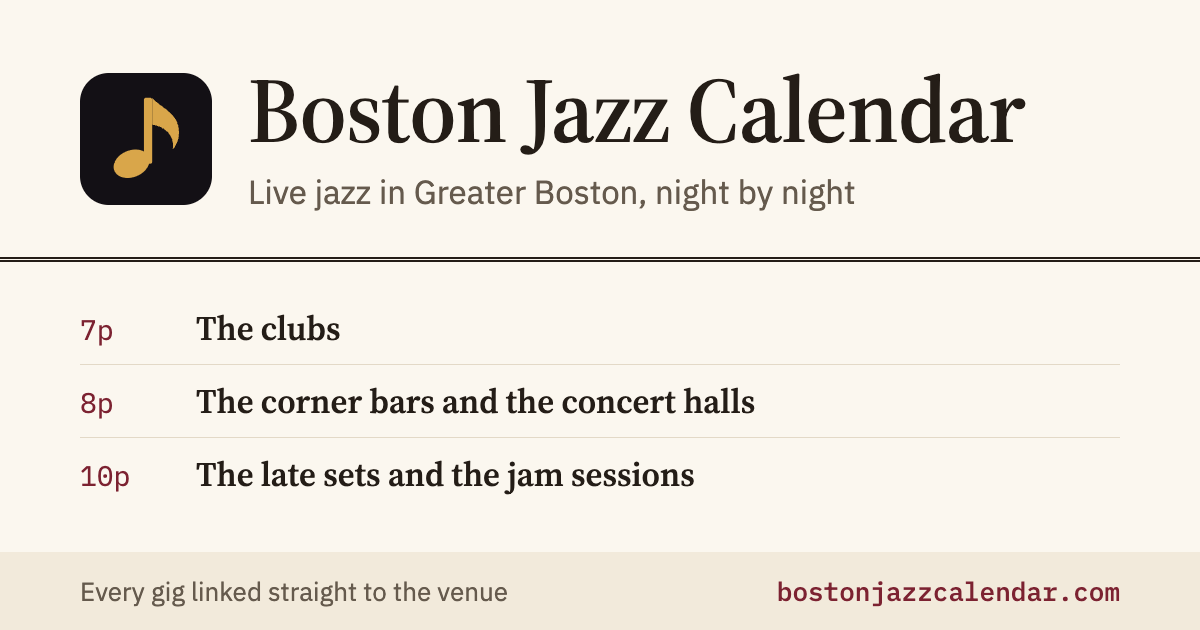
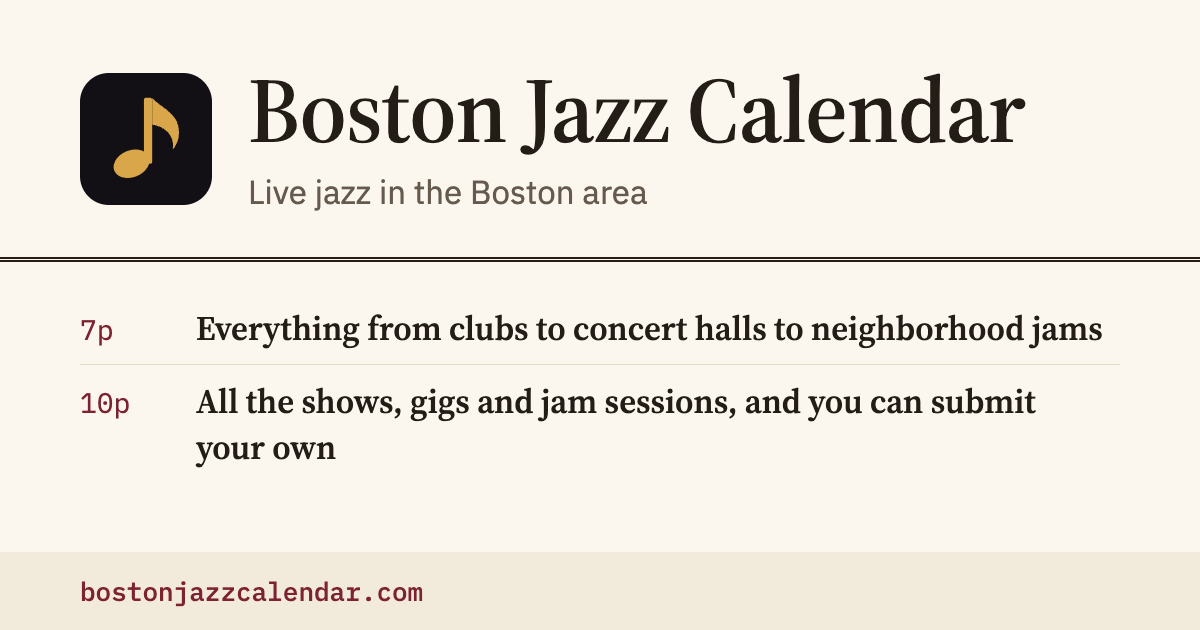
Reword the site description and link preview

diff --git a/site/public/index.html b/site/public/index.html
@@ -6,7 +6,7 @@
     <title>Boston Jazz Calendar</title>
     <meta
       name="description"
-      content="Live jazz in Greater Boston, night by night: clubs, bars, concert halls and jam sessions, each linked straight to the venue."
+      content="Community resource for all the live jazz in Greater Boston, from big shows to jams."
     />
     <meta name="color-scheme" content="light dark" />
     <meta name="theme-color" content="#ffffff" media="(prefers-color-scheme: light)" />
@@ -20,7 +20,7 @@
     <meta property="og:title" content="Boston Jazz Calendar" />
     <meta
       property="og:description"
-      content="Live jazz in Greater Boston, night by night: clubs, bars, concert halls and jam sessions, each linked straight to the venue."
+      content="Community resource for all the live jazz in Greater Boston, from big shows to jams."
     />
     <meta property="og:locale" content="en_US" />
     <meta property="og:image" content="https://bostonjazzcalendar.com/og-image.png" />
@@ -29,7 +29,7 @@
     <meta property="og:image:height" content="630" />
     <meta
       property="og:image:alt"
-      content="Boston Jazz Calendar: live jazz in Greater Boston, night by night. bostonjazzcalendar.com"
+      content="Boston Jazz Calendar: all the live jazz in Greater Boston. bostonjazzcalendar.com"
     />
     <meta name="twitter:card" content="summary_large_image" />
     <link rel="icon" href="/favicon.svg" type="image/svg+xml" />

diff --git a/site/art/og-image.html b/site/art/og-image.html
@@ -79,6 +79,7 @@
         align-items: baseline;
         padding: 13px 0;
         border-bottom: 1px solid var(--rule);
+        text-wrap: pretty;
         font-family: "Source Serif 4", serif;
         font-weight: 600;
         font-size: 34px;
@@ -125,16 +126,14 @@
       </svg>
       <div>
         <h1>Boston Jazz Calendar</h1>
-        <p class="tagline">Live jazz in Greater Boston, night by night</p>
+        <p class="tagline">Live jazz in the Boston area</p>
       </div>
     </header>
     <ul>
-      <li><span class="time">7p</span>The clubs</li>
-      <li><span class="time">8p</span>The corner bars and the concert halls</li>
-      <li><span class="time">10p</span>The late sets and the jam sessions</li>
+      <li><span class="time">7p</span>Everything from clubs to concert halls to neighborhood jams</li>
+      <li><span class="time">10p</span>All the shows, gigs and jam sessions, and you can submit your own</li>
     </ul>
     <footer>
-      <span>Every gig linked straight to the venue</span>
       <span class="url">bostonjazzcalendar.com</span>
     </footer>
   </body>
